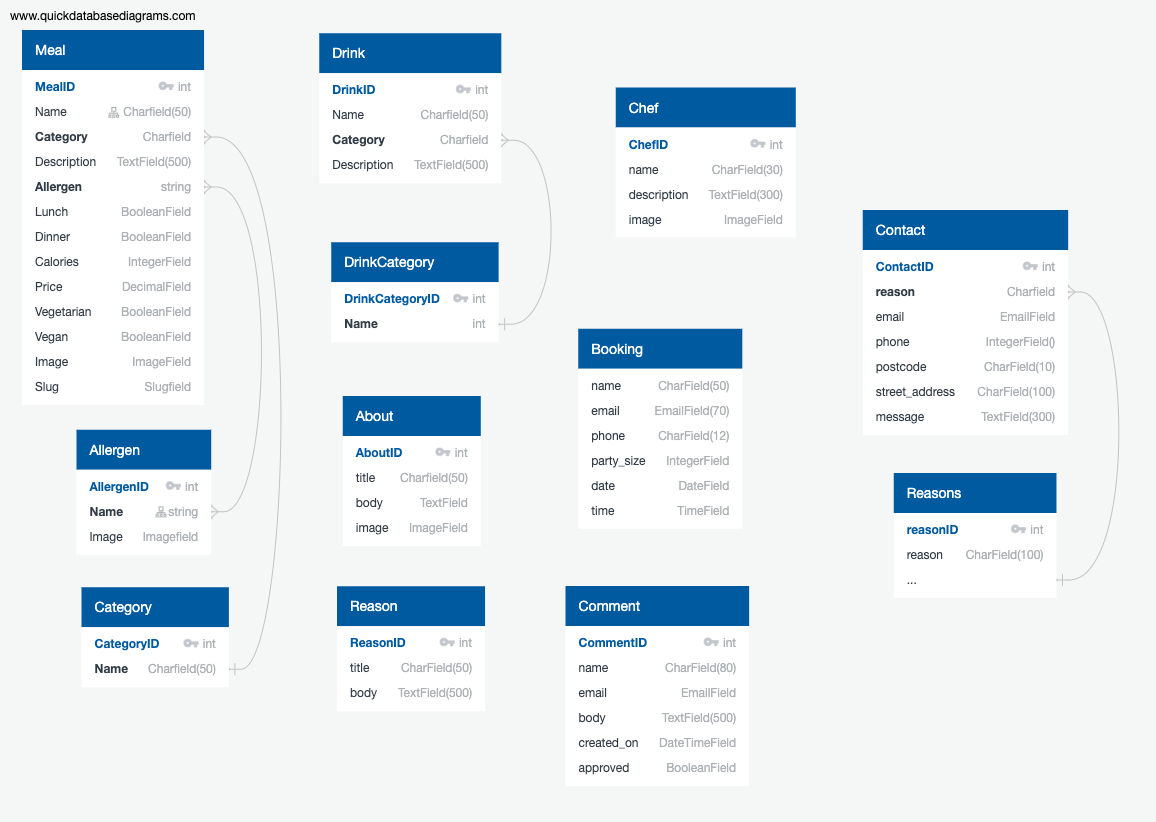
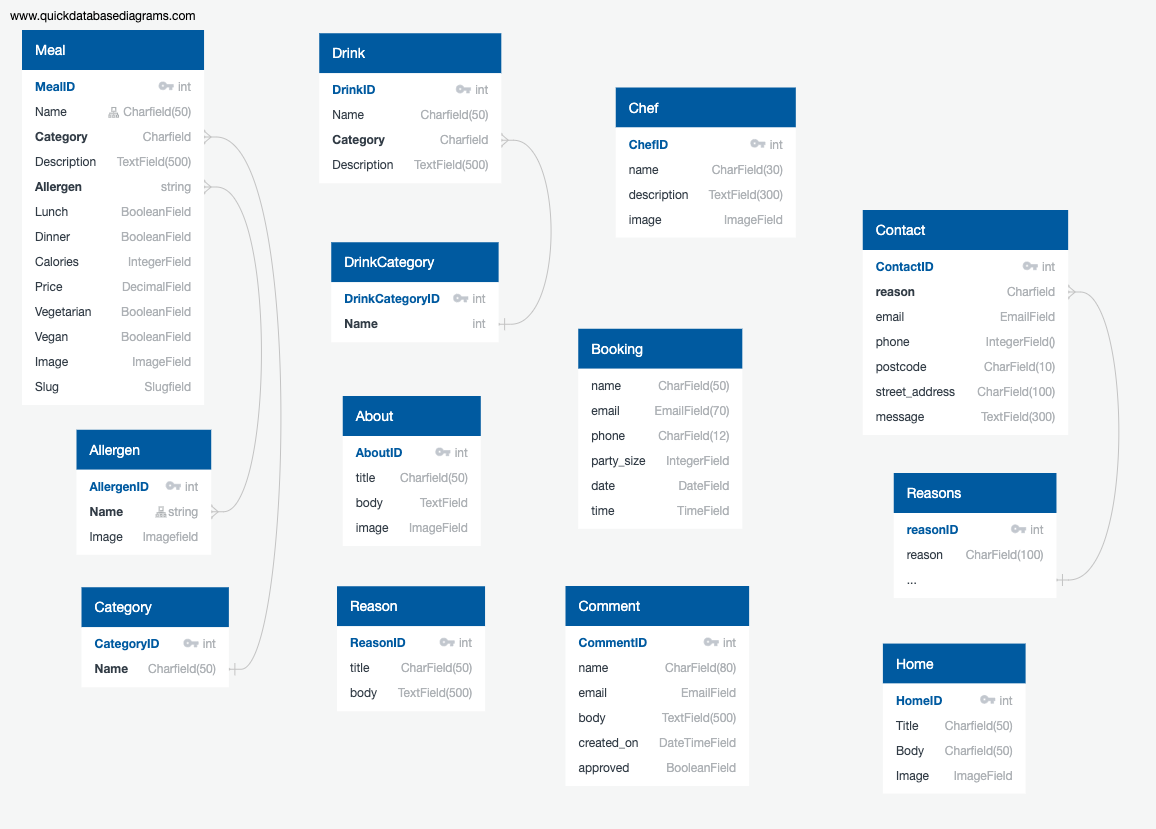
add model descriptions

diff --git a/README.md b/README.md
@@ -105,6 +105,81 @@ Physical database model
 This model contains all fields stored in the database collections with their data type and mimics the structure of what is actually stored in the Postgres database 
 <br>![Database model](readme/misc/database_schema.png)
 
+#### Models
+- The following models were created to represent the database model structure for the website
+
+##### User Model
+- The User model contains information about the user. It is part of the Django allauth library
+- The model contains the following fields: username, password, first_name, last_name, email, is_staff, is_active, is_superuser, last_login, date_joined
+
+##### Meal Model
+- The Meal model contains information about meals available within each of the menus
+- It contains Category as a foreign-key.
+- It contains Allergen as a Many-toMany relationship.
+- The model contains the following fields:  Name, Category, Description, Allergen, Lunch, Dinner, Calories, Price, Vegetarian, Vegan, Image, Slug.
+
+##### Category Model
+- The category model contains the available categories for a meal item
+- The model contains the following fields: name
+
+##### Allergen Model
+- The Allergen model contains allergens that may be contained in the meals, this has a many to many relationship with meals model.
+- It contains images so to be easily understood to non english speakers.
+- The model contains the following fields: name, image.
+
+##### Product Model
+- The Product Model represents a product and its details
+- It contains Category as a foreign-key
+- The model contains the following fields: name, category, price, colour, code, description, feature1, feature2, feature3, feature4, has_sizes, rating, pre_sale_price, image_url, image
+- The image field contains the product image
+- The image_url field contains the url to where the image file is physically stored, for example AWS S3 bucket
+
+##### Drink Model
+- The Drink model contains a the drinks available at the restaurant
+- It has DrinkCategory as a foreign-key.
+- The model contains the following fields: name, description, category, image.
+
+##### DrinkCategory Model
+- The News model contains viable categories for the drinks.
+- It acts as a foreign-key for Drinks model
+- The model contains the following fields: name
+
+##### Comment Model
+- The News model contains a comment that renders on the about page.
+- The model contains the following fields: user, comment_text, created_date
+
+##### Booking Model
+- The Booking model contains a collection of data submitted by the user when requesting a reservation.
+- The model contains the following fields: name, email, phone, party_size, date, ,time
+
+##### Contact Model
+- The Contact model contains a collection of data submitted by the user when messaging the site owner.
+- It contains Reasons as a foreign-key.
+- The model contains the following fields: reason, email, phone, postcode, street_address, message.
+
+#### Reason Model
+- The Contact model contains a collection pre configured headers that the user can use to send the message.
+- It acts as a foreign-key for Contact model.
+- The model contains the following fields: reason
+
+#### About Model
+- The About model contains a collection of data and image to show the restaurant heritage..
+- The model contains the following fields: title, body, image.
+
+#### Reasons Model
+- The Reasons model contains a collection reasons as to why the user should use the establishment.
+- The model contains the following fields: reason, body.
+
+#### Chefs Model
+- The Chefs model contains the chef images, names and biography.
+- The model contains the following fields: name, image, bio.
+
+#### Home Model
+- The Home model contains the items for the carousel on the home page.
+- The model contains the following fields: Title, body, image.
+
+
+
 
 <!-- ![CI logo](https://codeinstitute.s3.amazonaws.com/fullstack/ci_logo_small.png)
 
